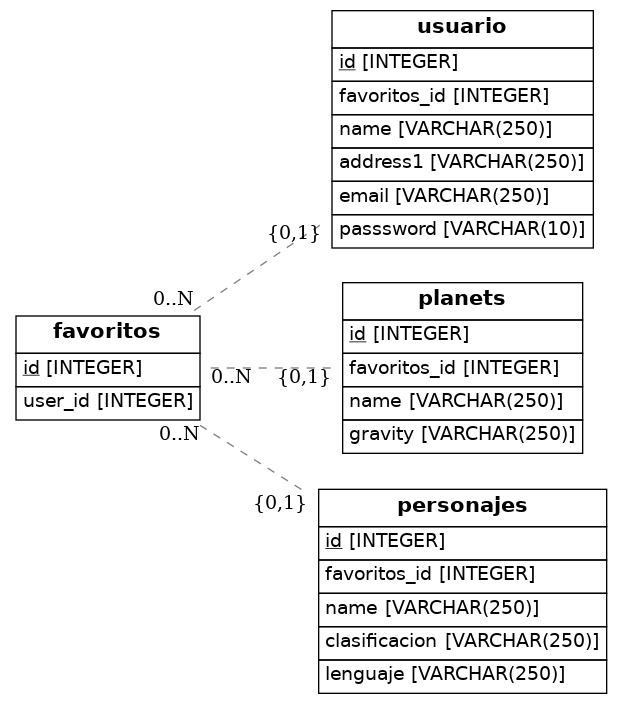
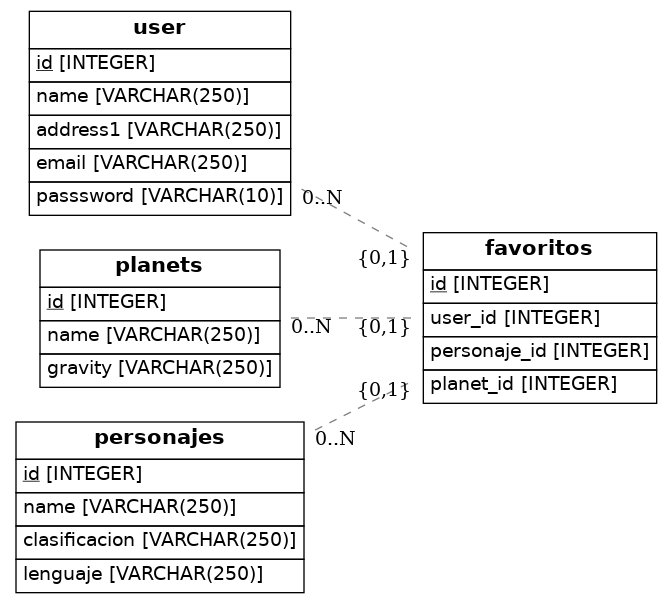
correccion

Changed region(s): [[0.0, 0.0, 1.0, 1.0]]

diff --git a/src/models.py b/src/models.py
@@ -9,9 +9,8 @@ from eralchemy import render_er
 Base = declarative_base()
 
 class User(Base):
-    __tablename__ = 'usuario'
+    __tablename__ = 'user'
     id = Column(Integer, primary_key=True)
-    favoritos_id = Column(Integer, ForeignKey('favoritos.id'))
     name = Column(String(250), nullable=False)
     address1 = Column(String(250), nullable=False)
     email = Column(String(250), nullable=False)
@@ -22,20 +21,20 @@ class Favoritos(Base):
     __tablename__ = 'favoritos'
     id = Column(Integer, primary_key=True)
     user_id = Column(Integer, ForeignKey('user.id'))
-    personajes = relationship('Personajes')
-    planets = relationship('Planets')
+    personaje_id = Column(Integer, ForeignKey('personajes.id'), nullable=True)
+    planet_id = Column(Integer, ForeignKey('planets.id'), nullable=True)
 
 class Planets(Base):
     __tablename__ = 'planets'
     id = Column(Integer, primary_key=True)
-    favoritos_id = Column(Integer, ForeignKey('favoritos.id'))
+    favoritos = relationship('Favoritos')
     name = Column(String(250), nullable=False)
     gravity = Column(String(250), nullable=False)
 
 class Personajes(Base):
     __tablename__ = 'personajes'
     id = Column(Integer, primary_key=True)
-    favoritos_id = Column(Integer, ForeignKey('favoritos.id'))
+    favoritos = relationship('Favoritos')
     name = Column(String(250), nullable=False)
     clasificacion = Column(String(250), nullable=False)
     lenguaje = Column(String(250), nullable=False)
